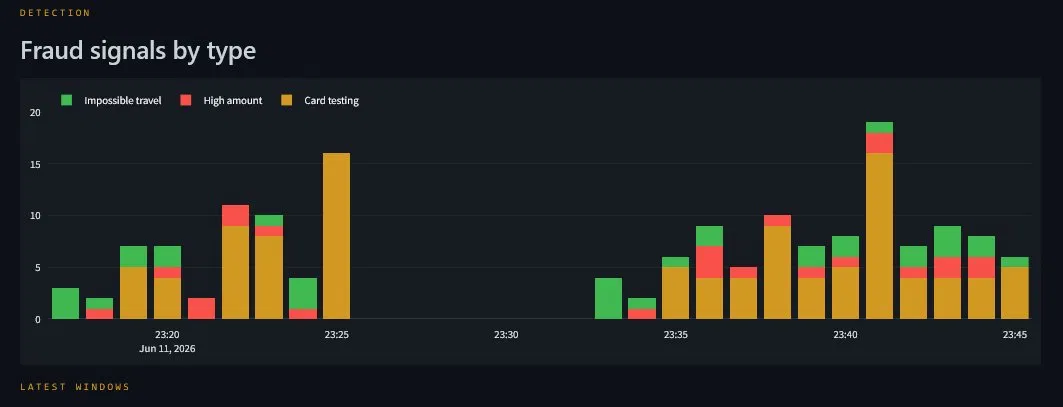
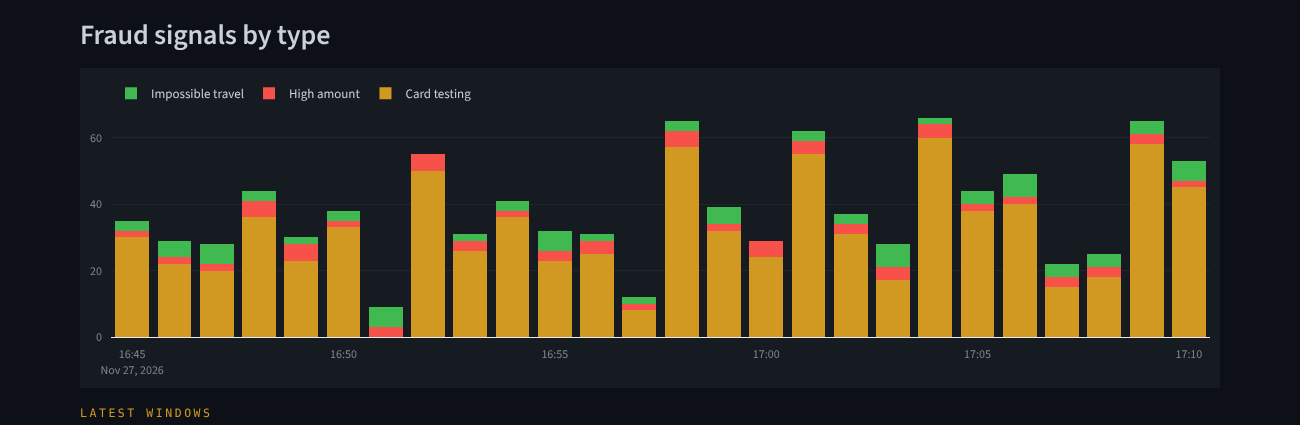
Re-record the public dashboard sample from the Delta pipeline; new screenshots
- data/gold_sample/ re-exported from a 28-minute local run of the current pipeline
  (registry wire format, Delta Gold). The first, partial minute is left out of the
  sample so it does not read as a dip in throughput.
- Dashboard: windows shown as "YYYY-MM-DD HH:MM UTC"; footer names Delta Lake.
- Redpanda Console now connects to the schema registry and admin API, so it decodes
  the wire format and lists the registered schema.
- Screenshots retaken: dashboard, console messages and overview, and the registered
  schema; the duplicate recent-activity screenshot is removed.

Claude-Session: https://claude.ai/code/session_01NPRom6U4n9MTC5L7n1c1Jp

diff --git a/dashboard/app.py b/dashboard/app.py
@@ -170,7 +170,7 @@ vol.update_layout(
     showlegend=False,
 )
 st.plotly_chart(
-    vol, use_container_width=True, config={"scrollZoom": False, "displayModeBar": False}
+    vol, width="stretch", config={"scrollZoom": False, "displayModeBar": False}
 )
 
 # ---------------------------------------------------------------------------
@@ -211,7 +211,7 @@ fig.update_layout(
     ),
 )
 st.plotly_chart(
-    fig, use_container_width=True, config={"scrollZoom": False, "displayModeBar": False}
+    fig, width="stretch", config={"scrollZoom": False, "displayModeBar": False}
 )
 
 # ---------------------------------------------------------------------------
@@ -222,6 +222,7 @@ st.markdown("### Recent activity")
 recent = df.tail(12).iloc[::-1].copy()
 recent["avg_amount"] = recent["avg_amount"].round(2)
 recent["total_amount"] = recent["total_amount"].round(2)
+recent["window_start"] = pd.to_datetime(recent["window_start"]).dt.strftime("%Y-%m-%d %H:%M UTC")
 show = recent[
     [
         "window_start",
@@ -260,13 +261,13 @@ st.dataframe(
             "Tx": "{:,}",
         }
     ),
-    use_container_width=True,
+    width="stretch",
     hide_index=True,
 )
 
 st.caption(
     f"{len(df)} windows · pipeline: producer → Redpanda → Spark Structured "
-    f"Streaming → Parquet (Gold) → this dashboard",
+    f"Streaming → Delta Lake (Gold) → this dashboard",
 )
 
 if auto:

diff --git a/spark/export_sample.py b/spark/export_sample.py
@@ -32,6 +32,9 @@ def main() -> None:
 
     df: pd.DataFrame = DeltaTable(GOLD_DIR).to_pandas()
     df = df.sort_values("window_start").reset_index(drop=True)
+    # The stream starts part-way through its first minute, so that window holds only part of
+    # a minute's transactions; it would read as a dip in the throughput chart.
+    df = df.iloc[1:].reset_index(drop=True)
 
     os.makedirs(SAMPLE_DIR, exist_ok=True)
     df.to_parquet(SAMPLE_PATH, index=False)

diff --git a/README.md b/README.md
@@ -85,11 +85,13 @@ Card testing arrives in bursts, so it dominates the per-minute fraud counts even
 
 ### Recent activity & alerts
 ![Recent activity](docs/screenshots/03-recent-activity.png)
-![Recent activity continued](docs/screenshots/04-recent-activity-2.png)
 
-### Redpanda Console — live messages
+### Redpanda Console — live messages, decoded through the schema registry
 ![Redpanda messages](docs/screenshots/05-redpanda-messages.png)
 ![Redpanda overview](docs/screenshots/06-redpanda-overview.png)
+
+### The registered event schema (`transactions-value`, BACKWARD compatibility)
+![Schema registry](docs/screenshots/07-schema-registry.png)
 
 ---
 
